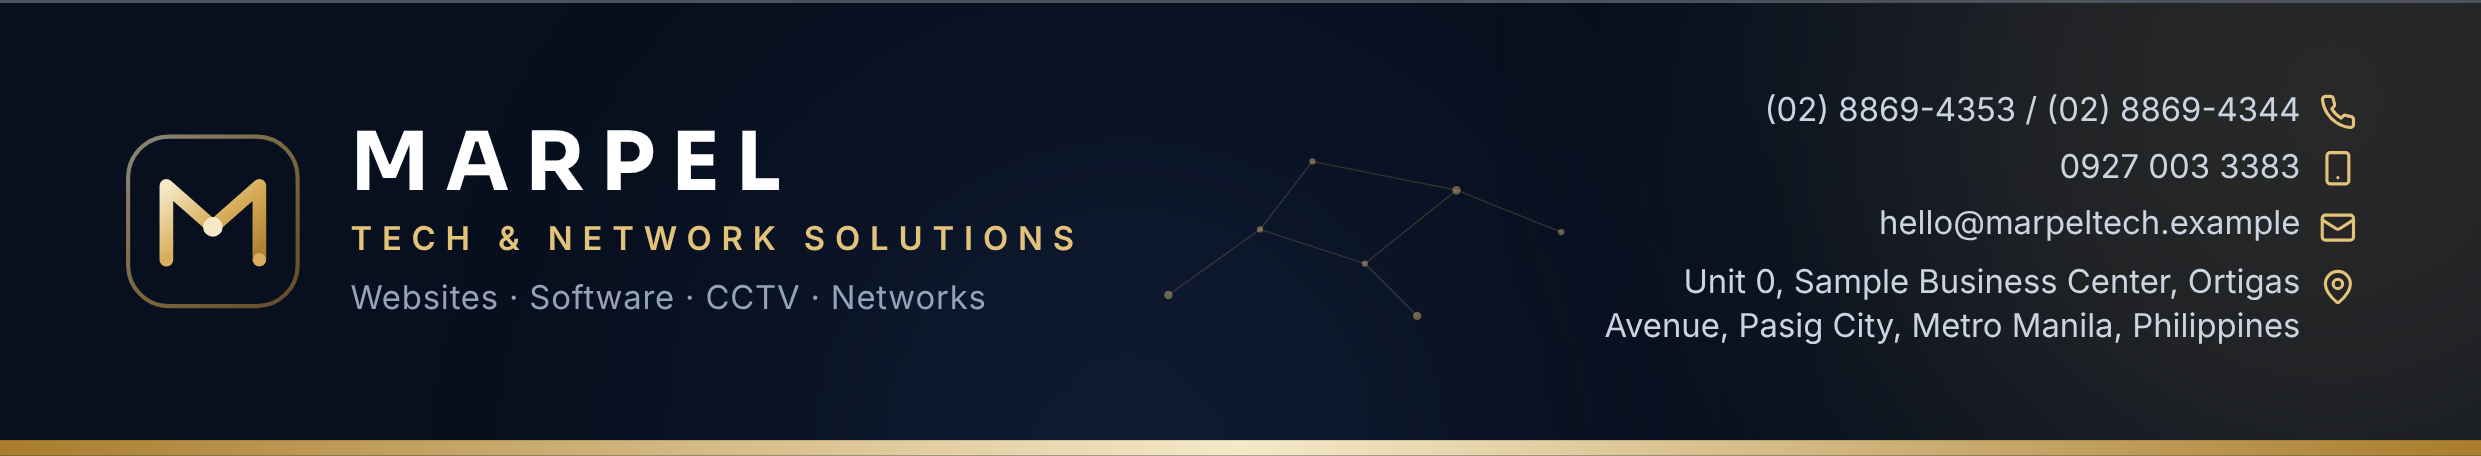
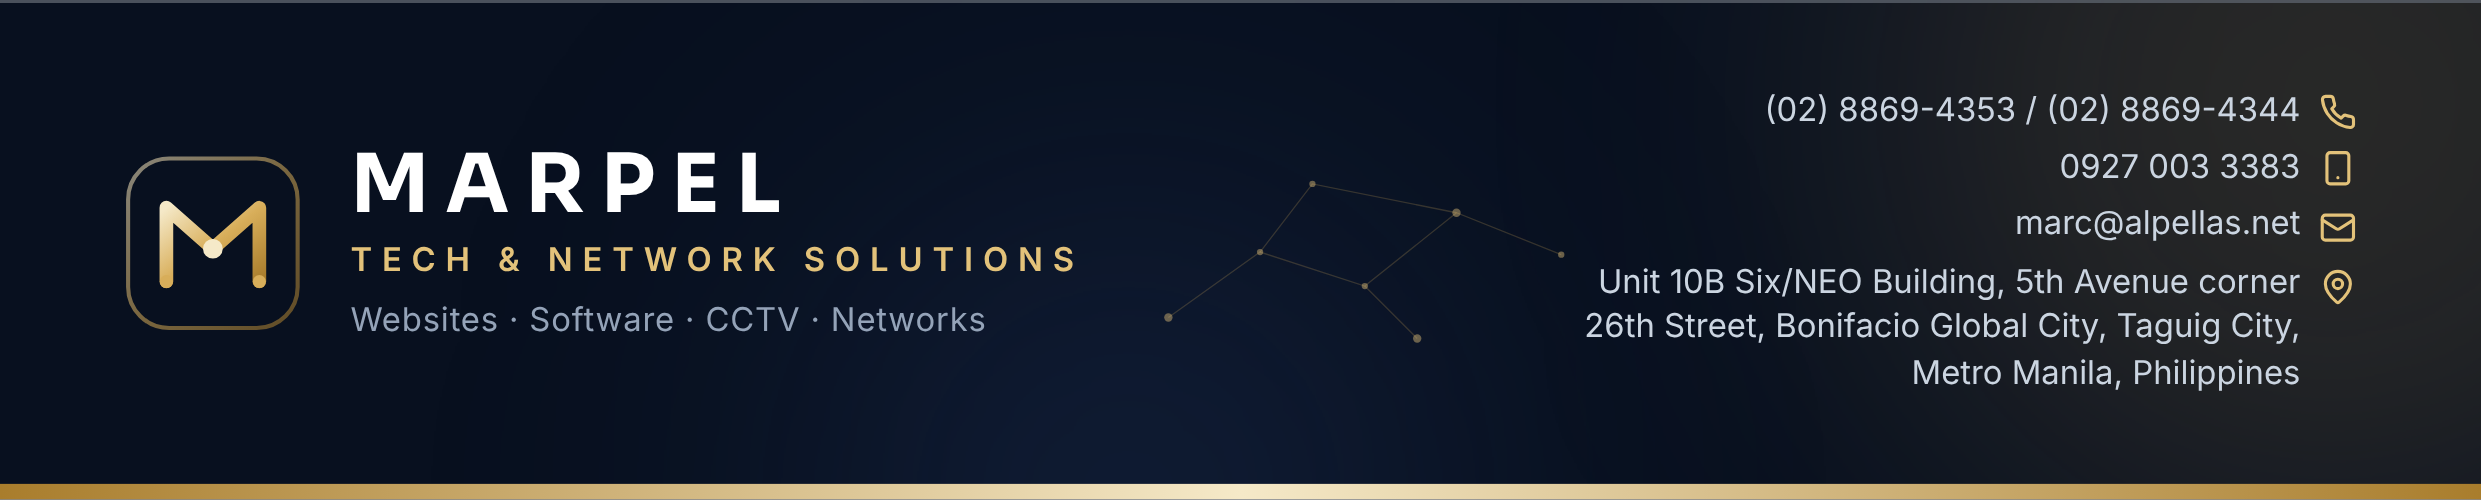
Apply owner details: no homepage figures, prices on inquiry, official contact
- Homepage statistics strip hidden (empty until real figures are added);
  expertise shown as a checklist without percentages; About hides the
  founding year when blank.
- All service prices hidden: cards and packages say 'Price upon
  inquiry' and the AI assistant no longer quotes starting prices.
- Business email, notification email and office address set to the
  owner's details; letterhead PNG and Word templates regenerated.
- Migration 'owner-details-1' applies the same to data already stored
  in browsers.

Claude-Session: https://claude.ai/code/session_014XyfiaSPtNGVeEASyN2Z1z

diff --git a/marpel/src/lib/seed-content.ts b/marpel/src/lib/seed-content.ts
@@ -26,13 +26,13 @@ export const seedSettings: Settings = {
   shortName: 'Marpel Tech',
   tagline: 'Websites · Software · CCTV · Networks',
   pageLoader: true,
-  email: 'hello@marpeltech.example',
-  supportEmail: 'support@marpeltech.example',
+  email: 'marc@alpellas.net',
+  supportEmail: 'marc@alpellas.net',
   phone: '(02) 8869-4353 / (02) 8869-4344',
   mobile: '0927 003 3383',
-  address: 'Unit 0, Sample Business Center, Ortigas Avenue',
-  city: 'Pasig City, Metro Manila, Philippines',
-  mapQuery: 'Ortigas Center, Pasig City',
+  address: 'Unit 10B Six/NEO Building, 5th Avenue corner 26th Street, Bonifacio Global City',
+  city: 'Taguig City, Metro Manila, Philippines',
+  mapQuery: 'Six/NEO Building, 5th Avenue corner 26th Street, Bonifacio Global City, Taguig',
   hours: [
     { day: 'Monday', open: '08:00', close: '18:00', closed: false },
     { day: 'Tuesday', open: '08:00', close: '18:00', closed: false },
@@ -65,7 +65,7 @@ export const seedSettings: Settings = {
     'Site conditions not visible during inspection may affect final costs; any change will be agreed in writing first.',
   ].join('\n'),
   tin: '000-000-000-00000',
-  adminNotificationEmail: 'owner@marpeltech.example',
+  adminNotificationEmail: 'marc@alpellas.net',
   emailEvents: {
     new_inquiry: true,
     new_message: true,
@@ -96,12 +96,7 @@ export const seedContent: SiteContent = {
     body:
       'From the first website visitor to the last network cable, we plan, build and support the systems your business runs on. We combine software craftsmanship with hands-on field engineering, so your web presence, operations software, security cameras and network all work together.',
   },
-  stats: [
-    { id: 's1', value: '150+', label: 'Projects delivered' },
-    { id: 's2', value: '98%', label: 'Client satisfaction' },
-    { id: 's3', value: '24h', label: 'Average response time' },
-    { id: 's4', value: '5', label: 'Core service lines' },
-  ],
+  stats: [],
   whyChoose: [
     { id: 'w1', icon: 'ShieldCheck', title: 'Accountable end-to-end', desc: 'One team handles assessment, build, installation and after-sales support — no finger-pointing between vendors.' },
     { id: 'w2', icon: 'Gauge', title: 'Engineered for reliability', desc: 'Proper cabling standards, tested failover, documented configurations and clean code you can maintain.' },
@@ -123,7 +118,7 @@ export const seedContent: SiteContent = {
   },
   about: {
     headline: 'Built by engineers who answer the phone.',
-    founded: '2019',
+    founded: '',
     profile:
       'Marpel Tech & Network Solutions is a Philippine IT services company providing website development, custom software, CCTV and security systems, MikroTik network engineering and IT infrastructure services to small businesses, schools, clinics, corporate offices and local government units.',
     background:
@@ -207,7 +202,7 @@ export const seedServices: Service[] = [
       P('pk_w3', 'E-commerce Store', 95000, 'starting', ['Product catalog & cart', 'Payment gateway integration', 'Order management', 'Inventory sync options', '3 months support']),
     ],
     startingPrice: 25000,
-    showPrice: true,
+    showPrice: false,
     status: 'published',
     order: 1,
     seoTitle: 'Website Development Services | Marpel Tech',
@@ -240,7 +235,7 @@ export const seedServices: Service[] = [
       P('pk_s3', 'Custom Enterprise Build', null, 'by assessment', ['Requirements workshop', 'Integrations & APIs', 'Dedicated project manager', 'SLA-backed support']),
     ],
     startingPrice: 80000,
-    showPrice: true,
+    showPrice: false,
     status: 'published',
     order: 2,
     seoTitle: 'Custom Software Development | POS, Inventory, CRM, HR | Marpel Tech',
@@ -272,7 +267,7 @@ export const seedServices: Service[] = [
       P('pk_c3', 'Enterprise Surveillance', null, 'by site inspection', ['16+ cameras', 'Multi-site viewing', 'Network integration', 'Maintenance plan']),
     ],
     startingPrice: 18500,
-    showPrice: true,
+    showPrice: false,
     status: 'published',
     order: 3,
     seoTitle: 'CCTV Installation & IP Camera Systems | Marpel Tech',
@@ -306,7 +301,7 @@ export const seedServices: Service[] = [
       P('pk_m3', 'Multi-Branch VPN Network', null, 'by assessment', ['Site-to-site VPN', 'VLAN segmentation', 'Central management', 'Documentation']),
     ],
     startingPrice: 6500,
-    showPrice: true,
+    showPrice: false,
     status: 'published',
     order: 4,
     seoTitle: 'MikroTik Configuration, Load Balancing & Failover | Marpel Tech',
@@ -341,7 +336,7 @@ export const seedServices: Service[] = [
       P('pk_i3', 'Managed IT Support', 15000, 'per month', ['Monthly preventive visit', 'Remote helpdesk', 'Priority response', 'Asset inventory']),
     ],
     startingPrice: 2500,
-    showPrice: true,
+    showPrice: false,
     status: 'published',
     order: 5,
     seoTitle: 'Structured Cabling, Wi-Fi, Servers & IT Support | Marpel Tech',
@@ -461,7 +456,7 @@ export const seedAI: AISettings = {
   handoffMode: 'offer',
   missesBeforeHandoff: 2,
   collectLeads: true,
-  showStartingPrices: true,
+  showStartingPrices: false,
   fallbackMessage:
     "I'm not certain about that, and I don't want to give you wrong information. I can forward your question to our team so a person can answer it.",
   businessContext:

diff --git a/marpel/src/admin/Content.tsx b/marpel/src/admin/Content.tsx
@@ -144,12 +144,16 @@ export default function Content() {
               </div>
             </Card>
             <Card>
-              <CardHeader title="Headline statistics" />
+              <CardHeader title="Headline statistics" subtitle="Leave empty to hide the statistics strip on the homepage" action={<Button size="sm" icon={<Plus className="h-3.5 w-3.5" />} onClick={() => setC({ ...c, stats: [...c.stats, { id: uid('st_'), value: '', label: '' }] })}>Add</Button>} />
               <div className="grid gap-3 p-5 sm:grid-cols-2">
+                {c.stats.length === 0 && <p className="text-sm text-slate-500 sm:col-span-2">No statistics: the strip is hidden on the homepage.</p>}
                 {c.stats.map((s, i) => (
                   <div key={s.id} className="flex gap-2">
                     <Input value={s.value} onChange={(e) => setC({ ...c, stats: c.stats.map((x, j) => (j === i ? { ...x, value: e.target.value } : x)) })} className="w-24" aria-label="Value" />
                     <Input value={s.label} onChange={(e) => setC({ ...c, stats: c.stats.map((x, j) => (j === i ? { ...x, label: e.target.value } : x)) })} aria-label="Label" />
+                    <IconButton label="Remove" onClick={() => setC({ ...c, stats: c.stats.filter((_, j) => j !== i) })} className="hover:text-rose-300">
+                      <Trash2 className="h-4 w-4" />
+                    </IconButton>
                   </div>
                 ))}
               </div>
@@ -174,8 +178,6 @@ export default function Content() {
               {c.expertise.map((e, i) => (
                 <div key={e.id} className="flex items-center gap-3">
                   <Input value={e.label} onChange={(ev) => setC({ ...c, expertise: c.expertise.map((x, j) => (j === i ? { ...x, label: ev.target.value } : x)) })} aria-label="Expertise" />
-                  <input type="range" min={0} max={100} value={e.level} onChange={(ev) => setC({ ...c, expertise: c.expertise.map((x, j) => (j === i ? { ...x, level: Number(ev.target.value) } : x)) })} className="w-28 accent-[#d8ae5a]" aria-label="Level" />
-                  <span className="w-10 text-right text-xs tabular-nums text-gold-200">{e.level}%</span>
                   <IconButton label="Remove" onClick={() => setC({ ...c, expertise: c.expertise.filter((_, j) => j !== i) })} className="hover:text-rose-300">
                     <Trash2 className="h-4 w-4" />
                   </IconButton>

diff --git a/marpel/src/public/pages/Home.tsx b/marpel/src/public/pages/Home.tsx
@@ -151,7 +151,8 @@ export default function Home() {
           </div>
           <HeroVisual />
         </div>
-        {/* stats */}
+        {/* stats (hidden until real figures are entered in Website Content) */}
+        {c.stats.length > 0 && (
         <div className="relative mx-auto max-w-7xl px-5 lg:px-8">
           <div className="grid grid-cols-2 overflow-hidden rounded-2xl border border-white/[0.07] bg-navy-900/60 backdrop-blur lg:grid-cols-4">
             {c.stats.map((st, i) => (
@@ -162,6 +163,7 @@ export default function Home() {
             ))}
           </div>
         </div>
+        )}
       </div>
 
       {/* INTRO + SERVICES */}
@@ -207,16 +209,11 @@ export default function Home() {
         <div className="grid gap-14 lg:grid-cols-2">
           <div>
             <SectionHeading align="left" eyebrow="Our expertise" title="Depth across software and the field." body="Our team combines developers and certified field technicians, so applications, cameras and networks are designed to work together." />
-            <ul className="space-y-5">
+            <ul className="space-y-3">
               {c.expertise.map((e) => (
-                <li key={e.id}>
-                  <div className="mb-2 flex justify-between text-sm">
-                    <span className="text-slate-200">{e.label}</span>
-                    <span className="tabular-nums text-gold-200">{e.level}%</span>
-                  </div>
-                  <div className="h-1.5 overflow-hidden rounded-full bg-white/[0.06]">
-                    <div className="h-full rounded-full bg-gradient-to-r from-gold-600 via-gold-400 to-gold-200" style={{ width: `${e.level}%` }} />
-                  </div>
+                <li key={e.id} className="flex items-center gap-3 rounded-xl border border-white/[0.06] bg-navy-900/50 px-4 py-3 text-sm text-slate-200">
+                  <CheckCircle2 className="h-5 w-5 shrink-0 text-gold-300" />
+                  {e.label}
                 </li>
               ))}
             </ul>

diff --git a/marpel/src/public/pages/Services.tsx b/marpel/src/public/pages/Services.tsx
@@ -134,7 +134,7 @@ export function ServiceDetail() {
 
       {s.packages.length > 0 && (
         <Section className="pt-0">
-          <SectionHeading eyebrow="Packages" title="Available packages" body="Starting prices are indicative. Your final price is confirmed in a written, itemised quotation after assessment." />
+          <SectionHeading eyebrow="Packages" title="Available packages" body={s.showPrice ? 'Starting prices are indicative. Your final price is confirmed in a written, itemised quotation after assessment.' : 'Send an inquiry or request a quotation and we will recommend the right package and send an itemised quotation.'} />
           <div className="grid gap-6 md:grid-cols-3">
             {s.packages.map((p) => (
               <div key={p.id} className={cx('relative flex flex-col rounded-2xl border p-7', p.popular ? 'border-gold-400/50 bg-gradient-to-b from-gold-400/10 to-navy-900/60 shadow-gold' : 'border-white/[0.07] bg-navy-900/50')}>
@@ -147,10 +147,10 @@ export function ServiceDetail() {
                       <span className="ml-1.5 text-sm text-slate-500">{p.priceNote}</span>
                     </>
                   ) : (
-                    <span className="font-display text-xl font-semibold text-gold-200">{p.price === null ? 'Custom pricing' : 'Request a quote'}</span>
+                    <span className="font-display text-xl font-semibold text-gold-200">{s.showPrice && p.price === null ? 'Custom pricing' : 'Price upon inquiry'}</span>
                   )}
                 </p>
-                {p.price === null && <p className="text-xs text-slate-500">{p.priceNote}</p>}
+                {s.showPrice && p.price === null && <p className="text-xs text-slate-500">{p.priceNote}</p>}
                 <ul className="mt-6 flex-1 space-y-2.5">
                   {p.features.map((f) => (
                     <li key={f} className="flex gap-2.5 text-sm text-slate-300">

diff --git a/marpel/src/lib/store.tsx b/marpel/src/lib/store.tsx
@@ -48,7 +48,7 @@ export function buildSeed(): DB {
     emails: r.emails,
     audit: r.audit,
     counters: r.counters,
-    migrations: ['real-portfolio-1'],
+    migrations: ['real-portfolio-1', 'owner-details-1'],
   };
 }
 
@@ -64,6 +64,23 @@ function migrate(db: DB) {
     const post = db.posts.find((p) => p.id === 'b6');
     if (post?.status === 'published') post.status = 'draft';
     done.add('real-portfolio-1');
+  }
+  if (!done.has('owner-details-1')) {
+    // Owner instructions (Nov 2026): no figures on the homepage, prices on inquiry only, official email and office.
+    if (db.content.stats.every((x) => /^s\d$/.test(x.id))) db.content.stats = [];
+    if (db.content.about.founded === '2019') db.content.about.founded = '';
+    db.services.forEach((x) => (x.showPrice = false));
+    db.ai.showStartingPrices = false;
+    const st = db.settings;
+    if (st.email === 'hello@marpeltech.example') st.email = seedSettings.email;
+    if (st.supportEmail === 'support@marpeltech.example') st.supportEmail = seedSettings.supportEmail;
+    if (st.adminNotificationEmail === 'owner@marpeltech.example') st.adminNotificationEmail = seedSettings.adminNotificationEmail;
+    if (st.address.startsWith('Unit 0, Sample')) {
+      st.address = seedSettings.address;
+      st.city = seedSettings.city;
+      st.mapQuery = seedSettings.mapQuery;
+    }
+    done.add('owner-details-1');
   }
   db.migrations = [...done];
 }

diff --git a/marpel/src/public/pages/About.tsx b/marpel/src/public/pages/About.tsx
@@ -21,11 +21,15 @@ export default function About() {
             <p className="whitespace-pre-line text-base leading-relaxed text-slate-400">{a.background}</p>
             <div className="mt-8 flex items-center gap-6 rounded-2xl border border-white/[0.07] bg-navy-900/60 p-5">
               <Logo />
-              <div className="h-10 w-px bg-white/10" />
-              <div>
-                <p className="text-xs uppercase tracking-wider text-slate-500">Serving clients since</p>
-                <p className="font-display text-2xl font-semibold text-gold-200">{a.founded}</p>
-              </div>
+              {a.founded && (
+                <>
+                  <div className="h-10 w-px bg-white/10" />
+                  <div>
+                    <p className="text-xs uppercase tracking-wider text-slate-500">Serving clients since</p>
+                    <p className="font-display text-2xl font-semibold text-gold-200">{a.founded}</p>
+                  </div>
+                </>
+              )}
             </div>
           </div>
           <div className="grid gap-5">

diff --git a/marpel/src/public/sections.tsx b/marpel/src/public/sections.tsx
@@ -86,7 +86,7 @@ export function ServiceCard({ s, symbol }: { s: Service; symbol: string }) {
               Starts at <span className="font-display text-base font-semibold text-gold-200">{money(s.startingPrice, symbol, 0)}</span>
             </span>
           ) : (
-            <span className="text-xs text-slate-500">Priced after assessment</span>
+            <span className="text-xs text-slate-500">Price upon inquiry</span>
           )}
           <span className="flex items-center gap-1 text-sm font-medium text-gold-200 transition group-hover:gap-2">
             Learn more <ArrowRight className="h-4 w-4" />
